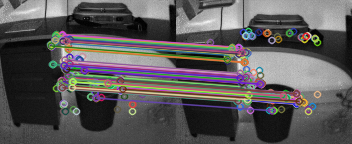
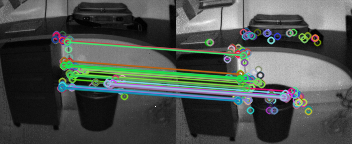
update the 3d affine transform parameter

diff --git a/src/main.cpp b/src/main.cpp
@@ -20,20 +20,20 @@ using std::cout;
 using std::endl;
 
 void poseEstimation3D3D
-(const std::vector<cv::Point3f>& pts1, 
- const std::vector<cv::Point3f>& pts2,
+(const std::vector<cv::Point3d>& pts1, 
+ const std::vector<cv::Point3d>& pts2,
  std::vector<double> &R, std::vector<double>& t)
 {
-    cv::Point3f p1, p2; 
+    cv::Point3d p1, p2; 
     int N = pts1.size(); 
     for (int i = 0; i < N; ++i)
     {
         p1 += pts1[i]; 
         p2 += pts2[i]; 
     }
-    p1 = cv::Point3f(cv::Vec3f(p1) / N); 
-    p2 = cv::Point3f(cv::Vec3f(p2) / N); 
-    std::vector<cv::Point3f>     q1 ( N ), q2 ( N ); // remove the center
+    p1 = cv::Point3d(cv::Vec3d(p1) / N); 
+    p2 = cv::Point3d(cv::Vec3d(p2) / N); 
+    std::vector<cv::Point3i>     q1 ( N ), q2 ( N ); // remove the center
     for ( int i=0; i<N; i++ )
     {
         q1[i] = pts1[i] - p1;
@@ -168,31 +168,31 @@ int main( int argc, char** argv )
         cout<<"good matches="<<goodMatches.size()<<endl;
         
     }
-    cv::Mat imgMatches;
-    cv::drawMatches( f1.rgb, f1.kp, f2.rgb, f2.kp, goodMatches, imgMatches );
-    cv::imwrite( "good_matches.png", imgMatches );
     if (imgDisplay)
     {
+        cv::Mat imgMatches;
+        cv::drawMatches( f1.rgb, f1.kp, f2.rgb, f2.kp, goodMatches, imgMatches );
+        cv::imwrite( "good_matches.png", imgMatches );
         cv::imshow( "good matches", imgMatches );
         cv::waitKey(0); 
     }
 
 
     // 3D poitns
-    std::vector<cv::Point3f> src ; 
-    std::vector<cv::Point3f> dst; 
+    std::vector<cv::Point3d> src ; 
+    std::vector<cv::Point3d> dst; 
     // 2D location
-    std::vector<cv::Point2f> imagCor; 
+    std::vector<cv::Point2d> imagCor; 
 
     for (size_t i = 0; i<goodMatches.size(); ++i)
     {
 
         
-        cv::Point2f p1 = f1.kp[goodMatches[i].queryIdx].pt;
-        cv::Point2f p2 = f2.kp[goodMatches[i].trainIdx].pt;
+        cv::Point2d p1 = f1.kp[goodMatches[i].queryIdx].pt;
+        cv::Point2d p2 = f2.kp[goodMatches[i].trainIdx].pt;
         
-        cv::Point3f point1; 
-        cv::Point3f point2;
+        cv::Point3d point1; 
+        cv::Point3d point2;
         //cout << p1.x << " " << p2.x << endl; 
         //cout << p1.y << " " << p2.y << endl; 
         //cout << endl;  
@@ -230,9 +230,36 @@ int main( int argc, char** argv )
         cout<<"src.size "<<src.size()<<endl;
         cout<<"dst.size "<<dst.size()<<endl;
     }
-    cv::estimateAffine3D(src, dst,affine,inliers,0.01,0.9999);
-    std::cout << "Inliners : " << inliers.size() << std::endl; 
+    int threshold = src.size() / 2;
+    cv::estimateAffine3D(src, dst,affine,inliers, 11 ,0.999);
+    int count = 0; 
+    for (int i = 0; i < src.size(); ++i)
+    {
+        if(inliers.at<bool>(0,i) == true)
+        {
+            ++count; 
+        }
+    }
+    std::cout << "Inliners : " << count << std::endl; 
 
+    //std::cout << inliers << std::endl; 
+    //std::cout << src.size() << std::endl; 
+    int writeImg = atoi( pd.getData( "writeImg" ).c_str() );
+    if (writeImg)
+    {
+        cv::Mat imgMatches;
+        std::vector<cv::DMatch> goodMatches2;
+        for (int i = 0; i < src.size(); ++i)
+        {
+            //std::cout << inliers.at<bool>(0,i) << std::endl; 
+            if(inliers.at<bool>(0,i) == true)
+            {
+                goodMatches2.push_back(goodMatches[i]); 
+            }
+        }
+        cv::drawMatches( f1.rgb, f1.kp, f2.rgb, f2.kp, goodMatches2, imgMatches );
+        cv::imwrite( "good_matches.png", imgMatches );
+    }
     //std::cout<<"\naffine transforation is : \n"<<affine<<endl;
     
     cv::Mat ratationMatrix = affine(cv::Rect(0,0,3,3));

diff --git a/src/utility.cpp b/src/utility.cpp
@@ -137,6 +137,7 @@ FRAME readImage(std::string FileName, ParameterReader *pd, int ID)
     cv::normalize(gray, gray, 1.0, 0.0, cv::NORM_MINMAX);
     gray *= 255.0; 
     gray.convertTo(gray, CV_8UC1);
+
     // cv::imshow("gray img", gray);
     if (false)
     {
